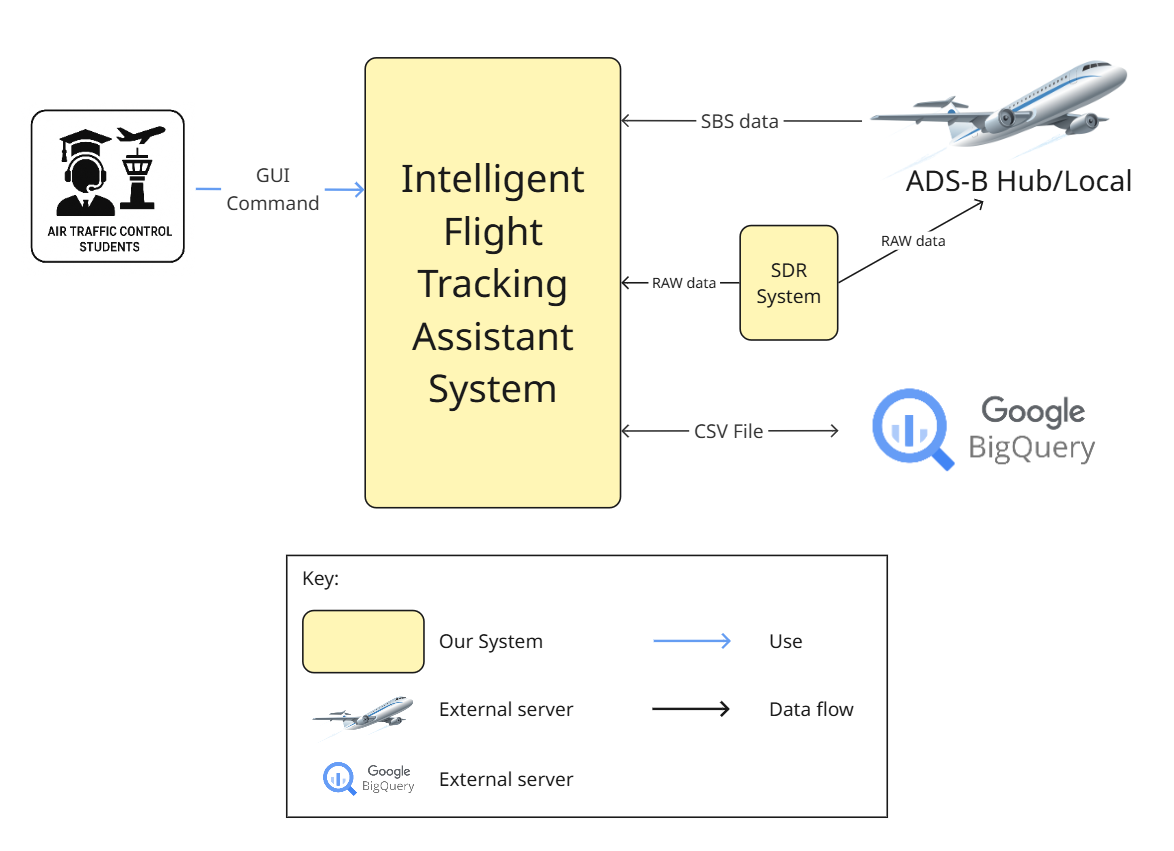
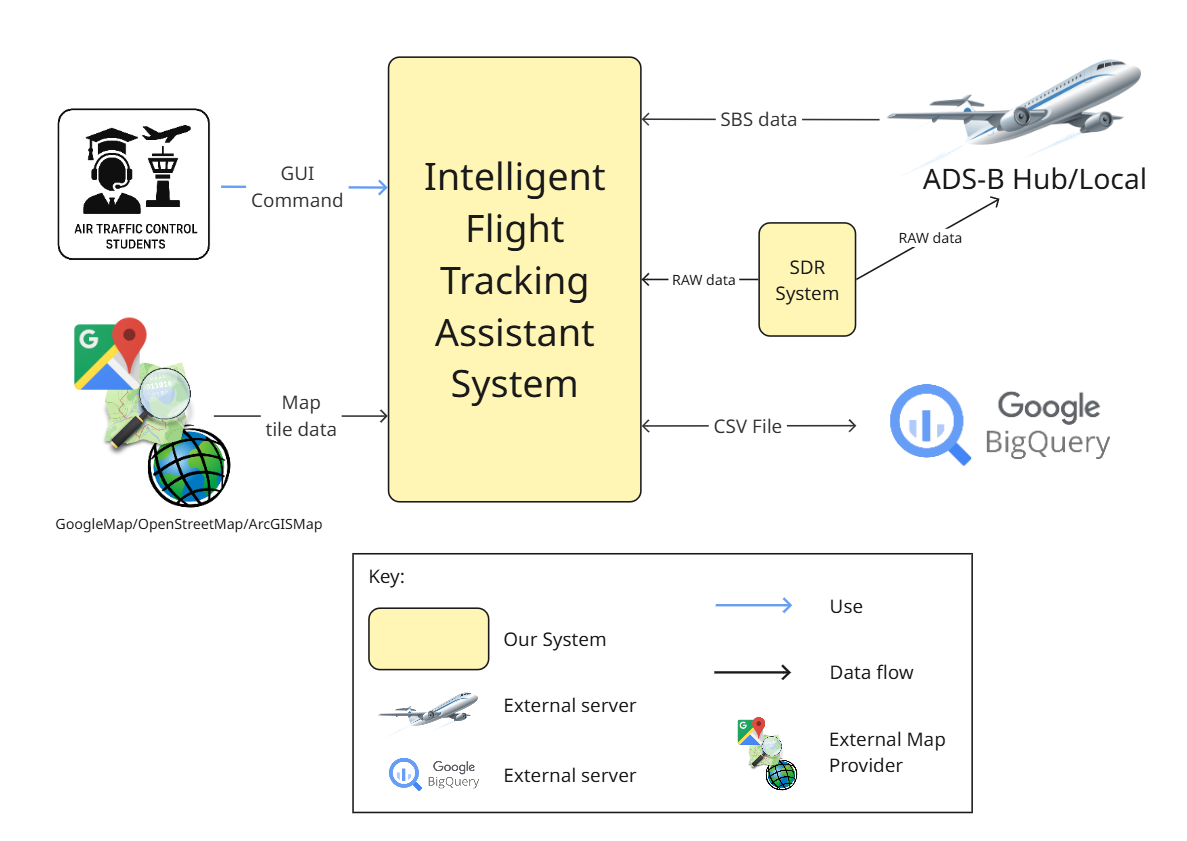
Fix to make it more concise

diff --git a/README.md b/README.md
@@ -19,23 +19,19 @@ This section contains the requirements, distilled from the [provided document #1
 but also with some assumptions we made. These requirements were the main drivers for the design decisions in this proposal.
 
 - [Functional requirements](requirements/functional-rqmts.md)
-- [Quality attribute requirements](requirements/quality-attribute-rqmts.md), aka architecture characteristics
+- [Quality attribute requirements](requirements/quality-attribute-rqmts.md) 
 
 ### Architecture
-
-Here you find the documentation of the software architecture that we envision to address Intelligent Flight Tracking Assistant's requirements. 
 
 As a starting point, there's a context diagram that gives an overview of the external elements that interact with 
 what we called the *Intelligent Flight Tracking Assistant*, which is the scope of this software architecture.
 
 <table>
 <tr><td align="center">Context Diagram<br>
-<img src="images/context-diagram.png" width="400"></td></tr>
+<img src="images/context-diagram.png" width="500"></td></tr>
 </table>
 
-The main part of the software architecture is the set of five *architecture views* seen below. These views provide a runtime 
-perspective of the system, that is, they show the components and connectors that have runtime presence and 
-altogether correspond to the main capabilities provided by the Intelligent Flight Tracking Assistant system.
+The main part of the software architecture is the set of four *architecture views* seen below. These views provide modules and runtime perspective of the system, that is, they show the components and connectors that have runtime presence and altogether correspond to the main capabilities provided by the Intelligent Flight Tracking Assistant system.
 
 
 <table>
@@ -58,6 +54,13 @@ altogether correspond to the main capabilities provided by the Intelligent Fligh
     </td>
 </tr>
 <tr>
+    <td colspan="3" align="center">
+        <a href="architecture/mvc-architecture-class-view.md">MVC architecture style class view<br>
+        <img src="images/mvc-architecture-class.png" width="200">
+        </a>
+    </td>
+</tr>
+<tr>
     <td colspan="3" align="center" valign="middle">
         <a href="architecture/resilient-sdr-monitoring-cnc-view.md">SDR system (a.k.a Flight Tracker) - Resilient SDR monitoring C&C view<br>
         <img src="images/flight-tracker-primary.png" width="200"><img src="images/flight-tracker-sequence.png" width="200">
@@ -77,6 +80,7 @@ Our architecture views were documented following a lightweight [view template av
 ### ADRs
 
 The linked ADRs below record the main architecture decisions regarding the proposed design, including their context and rationale.
+Each ADR may include links to relevant experiments from [technical-experiment repository](https://github.com/dpmin7/technical-experiment) that supports the architectural decision.
 
 - ADR 001 - [Use VBO method](ADRs/ADR001-maintain-multiple-copies-of-data.md)
 - ADR 002 - [Use ping/echo tactic](ADRs/ADR002-ping-echo.md)
@@ -85,7 +89,6 @@ The linked ADRs below record the main architecture decisions regarding the propo
 - ADR 005 - [Use polling-based monitoring](ADRs/ADR005-polling.md)
 
 <sub>***Note***: we used [this ADR template](https://github.com/pmerson/ADR-template/blob/master/ADR-template.md).</sub>
-
 
 --------------------------
 

diff --git a/architecture/mvc-architecture-cnc-view.md b/architecture/mvc-architecture-cnc-view.md
@@ -1,6 +1,6 @@
 # MVC Architecture Style C&C View of the Intelligent Flight Tracking Assistant
 
-This architecture view describes how the Intelligent Flight Tracking Assistant system applies the Model-View-Controller (MVC) pattern to render aircraft and map information to users. It highlights the separation of concerns among internal components responsible for the data model, control logic, and user interface. The view illustrates how user interactions trigger updates to aircraft and map data and how these changes propagate through the system in real time. By completely separating the GUI from the application logic, the system achieves significantly improved user responsiveness compared to legacy programs that were designed around a DisplayGUI-centric architecture.
+This architecture view describes how the Intelligent Flight Tracking Assistant system applies the Model-View-Controller (MVC) pattern to render aircraft and map information to users. It highlights the separation of concerns among internal components responsible for the data model, control logic, and user interface. The view illustrates how user interactions trigger updates to aircraft and map data and how these changes propagate through the system in real time. By completely separating the GUI from the application logic, the system achieves significantly improved `performance(user responsiveness)` compared to legacy programs that were designed around a DisplayGUI-centric architecture.
 
 ![MVC Architecture C&C View](../images/mvc-architecture-primary.png)
 
@@ -69,7 +69,7 @@ This architecture view describes how the Intelligent Flight Tracking Assistant s
 
 ## Behavior
 
-### Sequence of Aircraft Tracking (Green #1-7 in diagram):
+### Sequence of Aircraft Tracking (Green #1-7 in primary diagram):
 1. `User` click the connect button.
 2. `MainView Handler` triggers connection via `TCP Connector`.
   - The sequence for TCP reconnecting for resilient is as follows:
@@ -82,14 +82,14 @@ This architecture view describes how the Intelligent Flight Tracking Assistant s
   - The rendering sequence is as follows:
   ![Rendering Sequence Diagram](../images/rendering-sequence-diagram.png)
 
-### Sequence of Aircraft Alarm (Red #1-2):
+### Sequence of Aircraft Alarm (Red #1-2 in primary diagram):
 - `CPA` monitors aircraft position changes.
 - When criteria are met (e.g., collision risk), it sends alarm to `Views`
   - Trigger a collision risk alert if two aircraft come within 1nm of each other within the next 30 seconds.
   - The CPA computation workflow is as follows:
   ![CPA Computation Workflow](../images/cpa-workflow-diagram.png)
 
-### Sequence of Map Tile Updating (Purple #1-2):
+### Sequence of Map Tile Updating (Purple #1-2 in primary diagram):
 - `User` select the map source in UI.
 - `MainView Handler` selects map source.
 - `Map Manager` retrieves tiles from external servers periodically (500ms).

diff --git a/architecture/mvc-architecture-class-view.md b/architecture/mvc-architecture-class-view.md
@@ -1,6 +1,6 @@
 # MVC-based Class View of the Intelligent Flight Tracking Assistant
 
-This architecture view provides a structural overview of a class-level design based on the Model-View-Controller (MVC) pattern. It illustrates the relationships among components responsible for rendering aircraft data, managing spatial and aircraft-related metadata, and supporting various map and connector integrations. The diagram helps identify how the system separates concerns between user interface rendering, data processing, and control logic. The use of interfaces significantly enhances modifiability, enabling the system to respond swiftly and flexibly to new or changing requirements.
+This architecture view provides a structural overview of a class-level design based on the Model-View-Controller (MVC) pattern. It illustrates the relationships among components responsible for rendering aircraft data, managing spatial and aircraft-related metadata, and supporting various map and connector integrations. The diagram helps identify how the system separates concerns between user interface rendering, data processing, and control logic. The use of interfaces significantly enhances `modifiability`, enabling the system to respond swiftly and flexibly to new or changing requirements.
 
 ![MVC Architecture Class VIew](../images/mvc-architecture-class.png)
 
@@ -35,12 +35,17 @@ This section provides the catalog of additional classes.
 
 #### `IConnector`
 - Interface for network or database communication.
-- Realized by `TCPConnector`, `BigQueryConnector`, etc.
+- Realized by `TCPConnector` and Generalized by `IDBConnector`, etc.
 - Used by `PingEcho` for connectivity monitoring.  
 
-#### `IAnalysisAircraft`
+#### `IDBConnector`
+- Interface for external database communication.
+- Realized by `BigQueryConnector`, etc.
+
+#### `ICPA`
 - Interface for performing analysis on aircraft data.
-- Realized by classes like `CPA` and `PointInPolygon`.
+- Realized by classes like `CPA`.
+  - CPA can be implemented in various languages such as C++ or C#, and is loaded as a DLL (runtime shared library).
 
 #### `IParser`
 - Interface for data parsers.
@@ -68,6 +73,7 @@ N/A
 ## Related ADRs
 - ADR 002 - [Use ping/echo tactic](../ADRs/ADR002-ping-echo.md)
 - ADR 003 - [Use C#/WPF envinronment](../ADRs/ADR003-use-cs.md)
+- ADR 004 - [Use filter pattern](../ADRs/ADR004-filter.md)
 
 ## Related Views
 - [MVC architectue C&C view](./mvc-architecture-cnc-view.md)

diff --git a/ADRs/ADR002-ping-echo.md b/ADRs/ADR002-ping-echo.md
@@ -1,4 +1,4 @@
-# ADR 002: Use TCP-Based Connection Checks for Network Disconnection Detection and Recovery
+# ADR 002: Use TCP-Based Connection Checks for Network Disconnection Detection and Recovery for RUI
 Our system must maintain high availability and recoverability in environments where network connections may be intermittently lost. Monitoring network status is critical for triggering user notifications, initiating failover logic, and restarting critical components like ADS-B data feeds.
 
 The initial approach was to use ICMP echo requests (ping) to detect network availability, due to its simplicity and ubiquity. However, during testing, we discovered that the ADS-B server did not respond to ICMP requests even it's alive, making this method unreliable in our target deployment environment.
@@ -13,7 +13,7 @@ We will adopt a TCP connection attempt-based mechanism for monitoring network av
 - ICMP-based monitoring will not be used, as the target ADS-B servers do not reliably respond to echo requests.
 
 ## Rationale
-Although ICMP-based detection was initially considered for its lightweight nature, testing showed that the ADS-B server did not respond to ICMP packets, making this approach infeasible.
+Although ICMP-based detection was initially considered for its lightweight nature, testing showed that the ADS-B server did not respond to ICMP packets, making this approach infeasible. This decision was derived from the results of [*Experiment 2*](https://github.com/dpmin7/technical-experiment/blob/L5/experiment2/experiment2.md)
 
 TCP connection attempts proved to be effective in detecting both disconnection and successful recovery:
 - **Internet disconnection/recovery detection** succeeded in all 50 out of 50 test cases.

diff --git a/architecture/resilient-sdr-monitoring-cnc-view.md b/architecture/resilient-sdr-monitoring-cnc-view.md
@@ -1,28 +1,28 @@
 # Resilient SDR Monitoring and Recovery C&C View  
-This view documents the runtime structure of the Raspberry Pi-based Flight Tracker system. It focuses on how the system ensures continuous SDR-based flight data capture and recovery from device-level faults using a polling-based monitoring strategy.
+This view documents the runtime structure of the Raspberry Pi-based Flight Tracker system. It focuses on how the system ensures continuous SDR-based flight data capture and recovery from device-level faults using a polling-based monitoring strategy. Through this, the Flight Tracker system could be made significantly more resilient, which in turn improves its `availability`.
 
 ![Runtime View - Resilient SDR Monitoring](../images/flight-tracker-primary.png)
 
 ## Element Catalog
 
-#### systemd
+#### `systemd`
 - Initializes and supervises `dump1090` and `adsbhub.sh`
 - Automatically restarts services on failure unless blocked by monitoring script
 
-#### dump1090
+#### `dump1090`
 - Binary program that captures ADS-B signals from the SDR device
 - Runs continuously once the SDR is available
 
-#### adsbhub.sh
+#### `adsbhub.sh`
 - Shell script that feeds captured ADS-B data to an external hub or aggregator
 - Depends on dump1090 being operational
 
-#### sdrmonitor.sh
+#### `sdrmonitor.sh`
 - Shell script running in a polling loop
 - Checks SDR presence using `lsusb`
 - Issues `kill` to stop services if SDR is disconnected
 
-#### SDR (RTL2832U)
+#### `SDR (RTL2832U)`
 - USB-based Software Defined Radio dongle
 - May disconnect unpredictably due to hardware issues
 

diff --git a/ADRs/ADR005-polling.md b/ADRs/ADR005-polling.md
@@ -17,7 +17,7 @@ We chose to use `systemd` instead of writing a custom init script for several re
 - It offers powerful features such as service dependency handling, watchdogs, and automatic restarts.
 - Compared to developing a custom init mechanism from scratch, configuring a `systemd` unit file allowed us to implement a robust and reliable boot-time sequence in significantly less time and with lower maintenance cost.
 
-This decision was derived from the results of [**technical-experiment5**](https://github.com/dpmin7/technical-experiment/blob/L5/experiment5/experiment5.md), in which we verified the behavior of `systemd`, `dump1090`, and `adsbhub.sh` under repeated SDR connection and disconnection scenarios. The experiment confirmed that integrating polling-based logic into a systemd-supervised environment significantly increased system resilience with minimal overhead.
+This decision was derived from the results of [*Experiment 5*](https://github.com/dpmin7/technical-experiment/blob/L5/experiment5/experiment5.md), in which we verified the behavior of `systemd`, `dump1090`, and `adsbhub.sh` under repeated SDR connection and disconnection scenarios. The experiment confirmed that integrating polling-based logic into a systemd-supervised environment significantly increased system resilience with minimal overhead.
 
 Alternative approaches considered:
 - **Relying solely on `Restart=always` in systemd**: Rejected because it blindly restarts the service even when the SDR hardware is disconnected, leading to repeated failures without resolution.

diff --git a/requirements/functional-rqmts.md b/requirements/functional-rqmts.md
@@ -7,7 +7,7 @@ You will find the _actors_ we identified, and how they interact with the system 
 - SDR (Software Defined Rasio) system
 - ADS-B (Automatic Dependent Surveillance – Broadcast) Hub / Local system
 - Google BigQuery system
-- Google / OpenStreet Map Provider
+- Map Provider
 
 <br>
 
@@ -34,7 +34,7 @@ You will find the _actors_ we identified, and how they interact with the system 
 - Playback of stored data in local files or BigQuery
 
 ## Select Map
-- Switching between Google/VFR/IFR Map Modes 
+- Switching between Google/VFR/IFR/OpenStreet/ArcGIS Map Modes 
 - Map-based visualization of aircraft location with real-time updated map tile
 - Select various map providers
 
@@ -60,15 +60,11 @@ You will find the _actors_ we identified, and how they interact with the system 
 <br>
 
 # ***Map Provider***
-- Provide Google map tiles to client programs
-- Provide SkyVector map tiles to client programs
-    - 3 types of map is supported : VFS, IFR_Low, IFR_High
-- (Optional) Provide OpenStreet<sup>3</sup> map tiles to client programs
+- Provide map tiles to client programs
  
 <br>
 
 ### Notes
 <p><sup>1</sup>RUI is a native windows GUI application of Intelligent Flight Tracking Assistant system.</p>
 <p><sup>2</sup>SDR (Software Defined Radio) system (a.k.a Flight Tracker) is a linux server running on Raspberry Pi which gathers aircraft raw data and provides them.</p>
-<p><sup>3</sup>OpenStreet will be introduced for more map types
 

diff --git a/ADRs/ADR004-filter.md b/ADRs/ADR004-filter.md
@@ -24,8 +24,7 @@ We compared two alternative approaches to reduce computation:
    - _Advantages_: Reduces computations when updates are sparse.
    - _Disadvantages_: If many aircraft update simultaneously, CPA must be calculated between updated aircraft and all others, potentially leading to more computations than filtered approach. Also, risk of missing mutual CPA between updated aircraft unless handled carefully.
 
-Given these trade-offs, the filter-based approach provides a **more consistent and scalable** solution for both periodic and real-time CPA computation.  
-This decision was derived from the results of [**technical-experiment4**](https://github.com/dpmin7/technical-experiment/blob/L5/experiment4/experiment4.md).
+Given these trade-offs, the filter-based approach provides a **more consistent and scalable** solution for both periodic and real-time CPA computation. This decision was derived from the results of [*Experiment 4*](https://github.com/dpmin7/technical-experiment/blob/L5/experiment4/experiment4.md).
 
 ## Status
 

diff --git a/ADRs/ADR001-maintain-multiple-copies-of-data.md b/ADRs/ADR001-maintain-multiple-copies-of-data.md
@@ -24,7 +24,7 @@ Furthermore, by rendering at a **fixed rate** rather than on every object update
 - It is compatible with OpenGL 2.x (our current implementation level), so no additional technical review or OpenGL upgrade is required.
 - Periodic rendering ensures consistent performance regardless of object update frequency, and avoids overloading the rendering thread.
 
-This decision is based on the results of technical-experiment1, where we evaluated the performance of different rendering strategies.
+This decision was derived from the results of [*Experiment 1*](https://github.com/dpmin7/technical-experiment/blob/L5/experiment1/experiment1.md), where we evaluated the performance of different rendering strategies.
 The experiment confirmed that the caching-based rendering approach combined with fixed-rate rendering resulted in a meaningful performance improvement.
 
 **Rejected alternatives and rationale:**

diff --git a/requirements/quality-attribute-rqmts.md b/requirements/quality-attribute-rqmts.md
@@ -1,6 +1,6 @@
 # Quality attribute requirements of the Intelligent Flight Tracking Assistant
 
-A proper elicitation of quality attribute requirements (aka architecture characteristics, non-functional requirements) 
+A proper elicitation of quality attribute requirements. 
 requires a conversation with various system stakeholders. That conversation would allow: *(i)* specifying these requirements 
 in a testable/measurable format; and *(ii)* prioritizing the requirements. 
 
